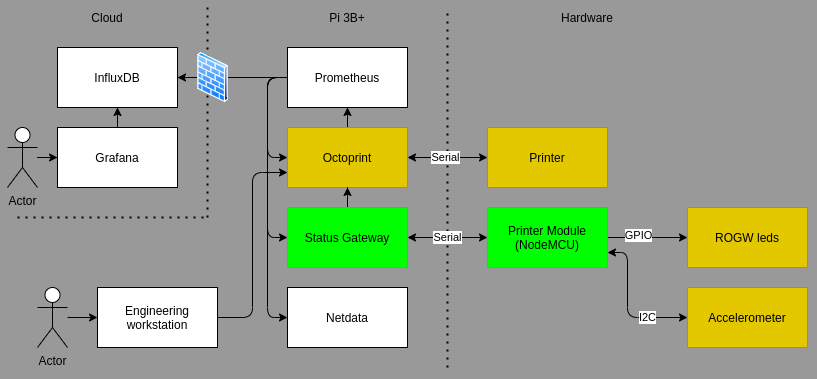
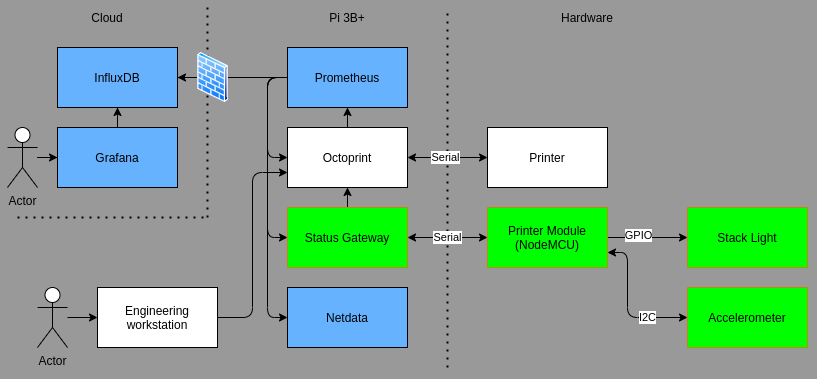
Expanded readme

diff --git a/README.md b/README.md
@@ -2,13 +2,21 @@
 
 **NOTE: this is not a safety system!**
 
-This project was designed to assist 3d printer operators with managing their printers. One important aspect is partial autonomy. The service evaluates printer parameters and determines if they're within normal range. If they veer outside, logs are created and the indicators are adjusted accordingly.
+This project was designed to assist 3d printer operators with managing their printers. By leveraging the position of additive manufacturing equipment on the cloud edge, we can build an optimized error detection flow, with a safe internet connected engineering workflow as secondary objective.
 
 ## System description
 
+The system consists of multiple parts, shown in the following diagram.
+
 ![Overview of the entire system, consisting of hardware, RPi and cloud sections](docs/system-overview.png "system overview")
 
-## Indicators
+The green blocks represent the custom hardware and necessary software that is added to the printer. These can function without direct user interaction by querying data from OctoPrint. They are directly useful to the operator in the machines physical vicinity.
+
+The blue blocks are responsible for providing the operator with detailed metrics and logs regarding the health of the equipment.
+
+## Stack light
+
+The stack light provides the operator with data regarding the system state. The meaning of the different colors and patterns is as follows.
 
 | color  | behaviour | meaning             |
 | ------ | --------- | ------------------- |
